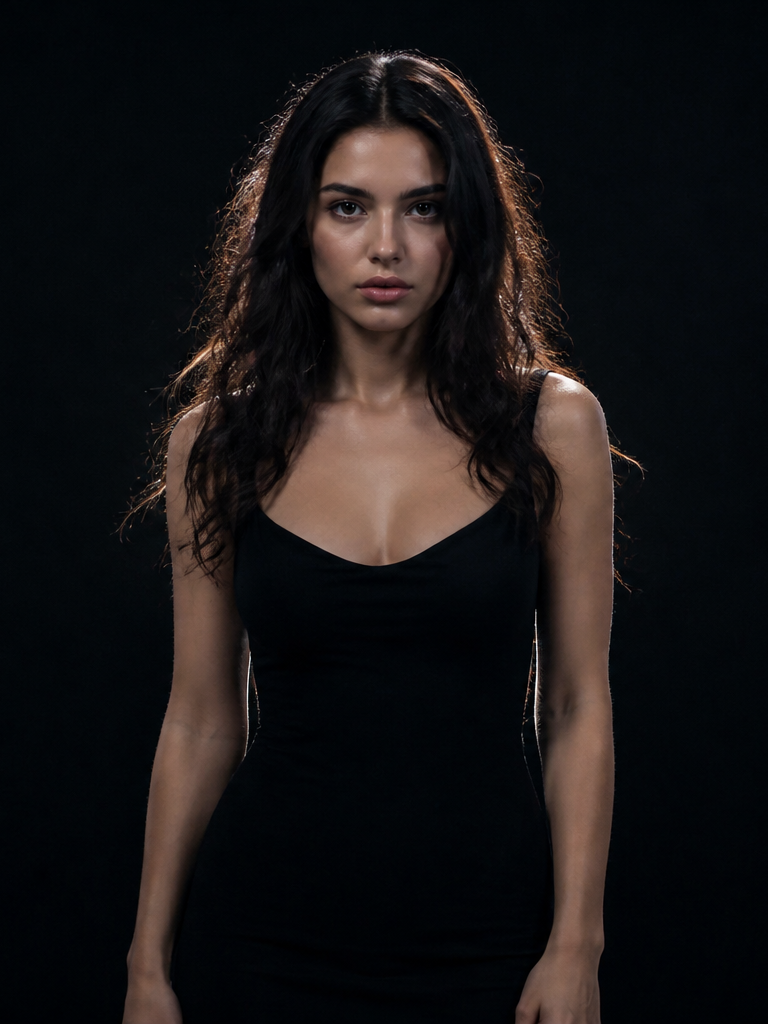
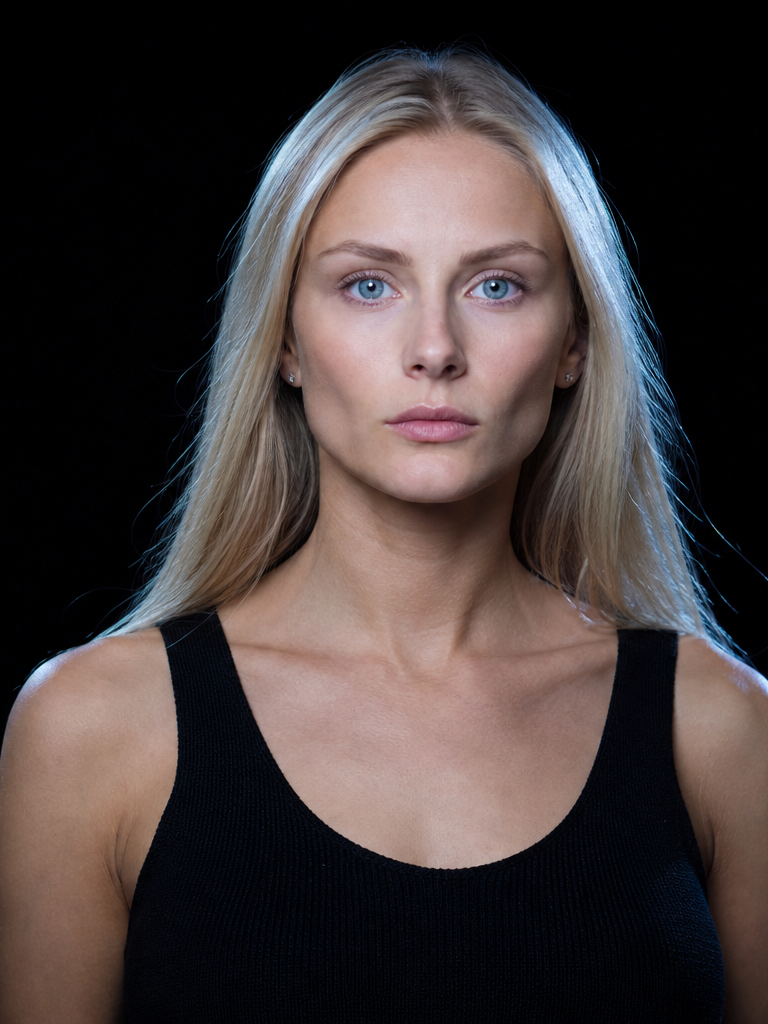
Add 10 personality faces; new Scandinavian Muse and Operator

diff --git a/index.html b/index.html
@@ -1003,11 +1003,11 @@
           <span class="scenario-label"><strong>Correspondent</strong></span>
         </button>
         <button type="button" class="scenario" role="option" data-layer="muse" aria-pressed="false">
-          <img class="scenario-art" src="assets/scenarios/muse.png?v=3" alt="" />
+          <img class="scenario-art" src="assets/scenarios/muse.png?v=6" alt="" />
           <span class="scenario-label"><strong>Muse</strong></span>
         </button>
         <button type="button" class="scenario" role="option" data-layer="operator" aria-pressed="false">
-          <img class="scenario-art" src="assets/scenarios/scientist.png?v=3" alt="" />
+          <img class="scenario-art" src="assets/scenarios/scientist.png?v=6" alt="" />
           <span class="scenario-label"><strong>Operator</strong></span>
         </button>
         <button type="button" class="scenario" role="option" data-layer="guide" aria-pressed="false">
@@ -1021,6 +1021,46 @@
         <button type="button" class="scenario" role="option" data-layer="mediator" aria-pressed="false">
           <img class="scenario-art" src="assets/scenarios/librarian.png?v=3" alt="" />
           <span class="scenario-label"><strong>Mediator</strong></span>
+        </button>
+        <button type="button" class="scenario" role="option" data-layer="skipper" aria-pressed="false">
+          <img class="scenario-art" src="assets/scenarios/skipper.png?v=1" alt="" />
+          <span class="scenario-label"><strong>Skipper</strong></span>
+        </button>
+        <button type="button" class="scenario" role="option" data-layer="composer" aria-pressed="false">
+          <img class="scenario-art" src="assets/scenarios/composer.png?v=1" alt="" />
+          <span class="scenario-label"><strong>Composer</strong></span>
+        </button>
+        <button type="button" class="scenario" role="option" data-layer="architect" aria-pressed="false">
+          <img class="scenario-art" src="assets/scenarios/architect.png?v=1" alt="" />
+          <span class="scenario-label"><strong>Architect</strong></span>
+        </button>
+        <button type="button" class="scenario" role="option" data-layer="editor" aria-pressed="false">
+          <img class="scenario-art" src="assets/scenarios/editor.png?v=1" alt="" />
+          <span class="scenario-label"><strong>Editor</strong></span>
+        </button>
+        <button type="button" class="scenario" role="option" data-layer="broker" aria-pressed="false">
+          <img class="scenario-art" src="assets/scenarios/broker.png?v=1" alt="" />
+          <span class="scenario-label"><strong>Broker</strong></span>
+        </button>
+        <button type="button" class="scenario" role="option" data-layer="scholar" aria-pressed="false">
+          <img class="scenario-art" src="assets/scenarios/scholar.png?v=1" alt="" />
+          <span class="scenario-label"><strong>Scholar</strong></span>
+        </button>
+        <button type="button" class="scenario" role="option" data-layer="director" aria-pressed="false">
+          <img class="scenario-art" src="assets/scenarios/director.png?v=1" alt="" />
+          <span class="scenario-label"><strong>Director</strong></span>
+        </button>
+        <button type="button" class="scenario" role="option" data-layer="chef" aria-pressed="false">
+          <img class="scenario-art" src="assets/scenarios/chef.png?v=1" alt="" />
+          <span class="scenario-label"><strong>Chef</strong></span>
+        </button>
+        <button type="button" class="scenario" role="option" data-layer="counsel" aria-pressed="false">
+          <img class="scenario-art" src="assets/scenarios/counsel.png?v=1" alt="" />
+          <span class="scenario-label"><strong>Counsel</strong></span>
+        </button>
+        <button type="button" class="scenario" role="option" data-layer="pilot" aria-pressed="false">
+          <img class="scenario-art" src="assets/scenarios/pilot.png?v=1" alt="" />
+          <span class="scenario-label"><strong>Pilot</strong></span>
         </button>
       </div>
       <div class="s3-foot">
